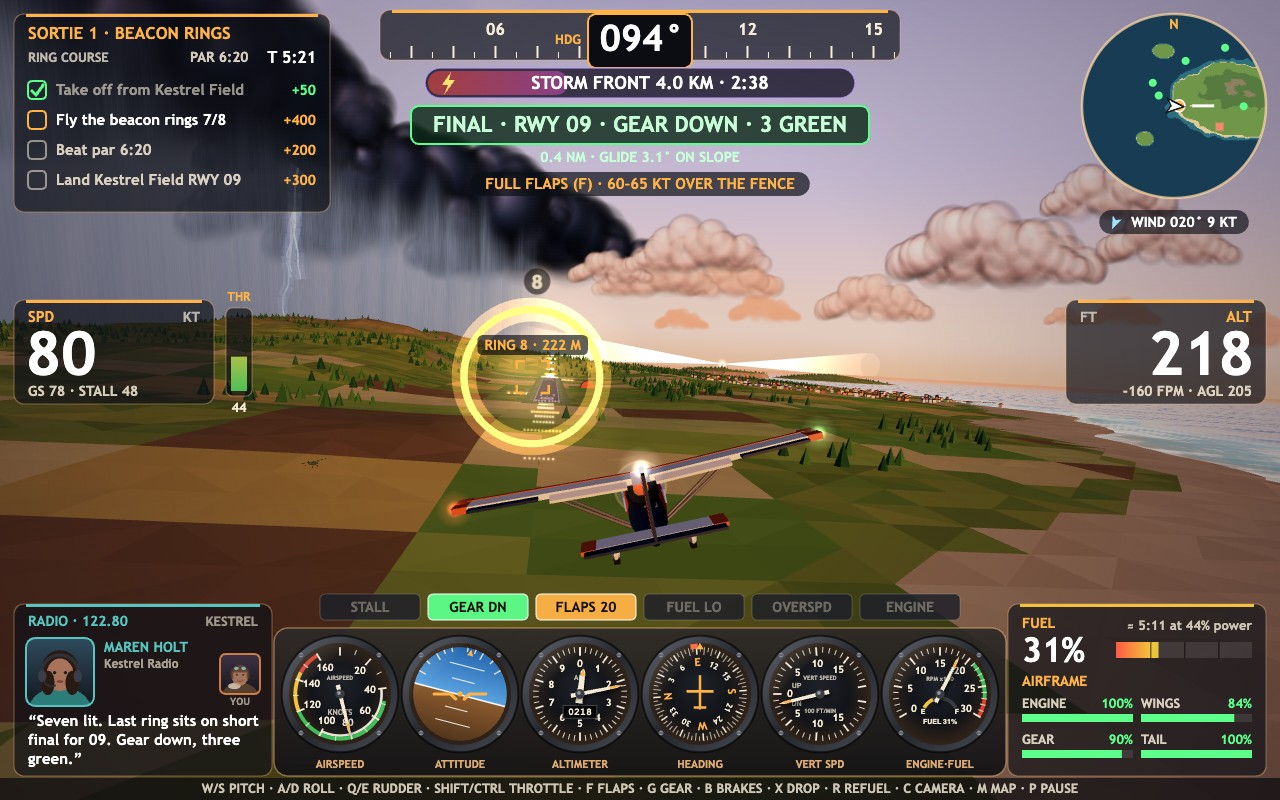
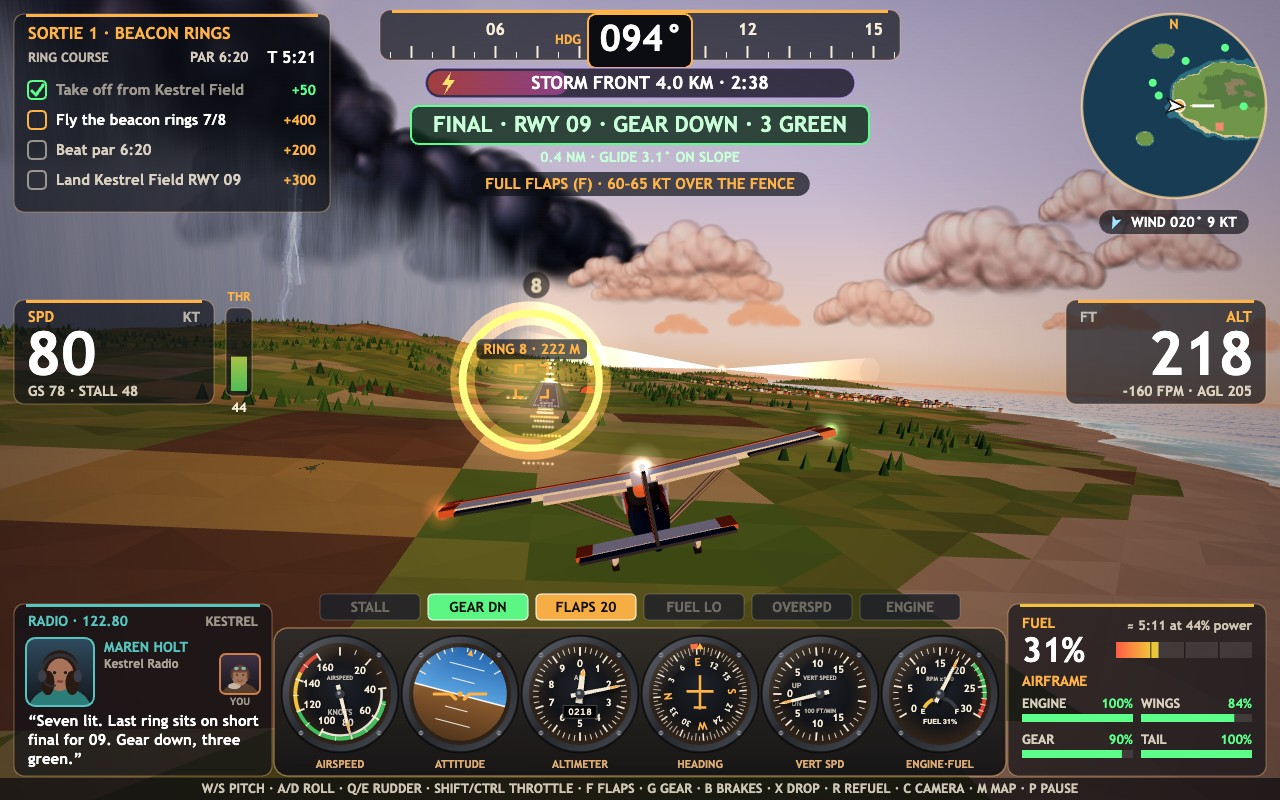
Chase camera a little closer so the aircraft fills more of the frame

diff --git a/game/src/chase-camera.js b/game/src/chase-camera.js
@@ -63,7 +63,7 @@ export function updateCamera(rig, aircraft, dt, snap = false) {
     heading.lerp(new THREE.Vector3(travel.x, 0, travel.z).normalize(), 0.4).normalize();
   }
   const climb = Math.max(-0.35, Math.min(0.35, forward.y));
-  desired.copy(p).addScaledVector(heading, -12.8).addScaledVector(new THREE.Vector3(0, 1, 0), 4.8 - climb * 8);
+  desired.copy(p).addScaledVector(heading, -11.4).addScaledVector(new THREE.Vector3(0, 1, 0), 4.4 - climb * 8);
   lookAt.copy(p).addScaledVector(heading, 26).addScaledVector(new THREE.Vector3(0, 1, 0), 2.2 + climb * 20);
   const ground = rig.groundHeight ? rig.groundHeight(desired.x, desired.z) : 0;
   desired.y = Math.max(desired.y, ground + 2.5);
